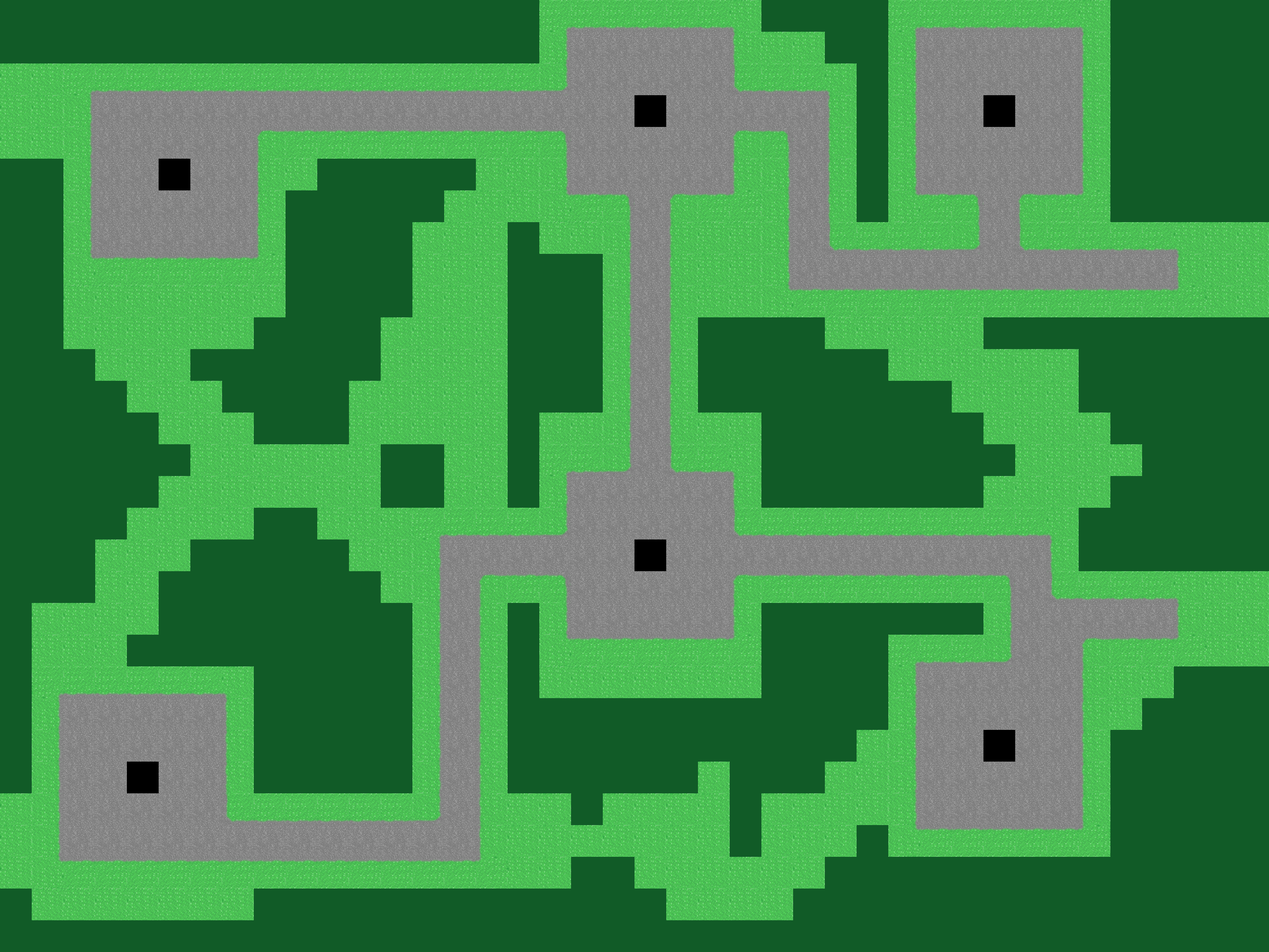
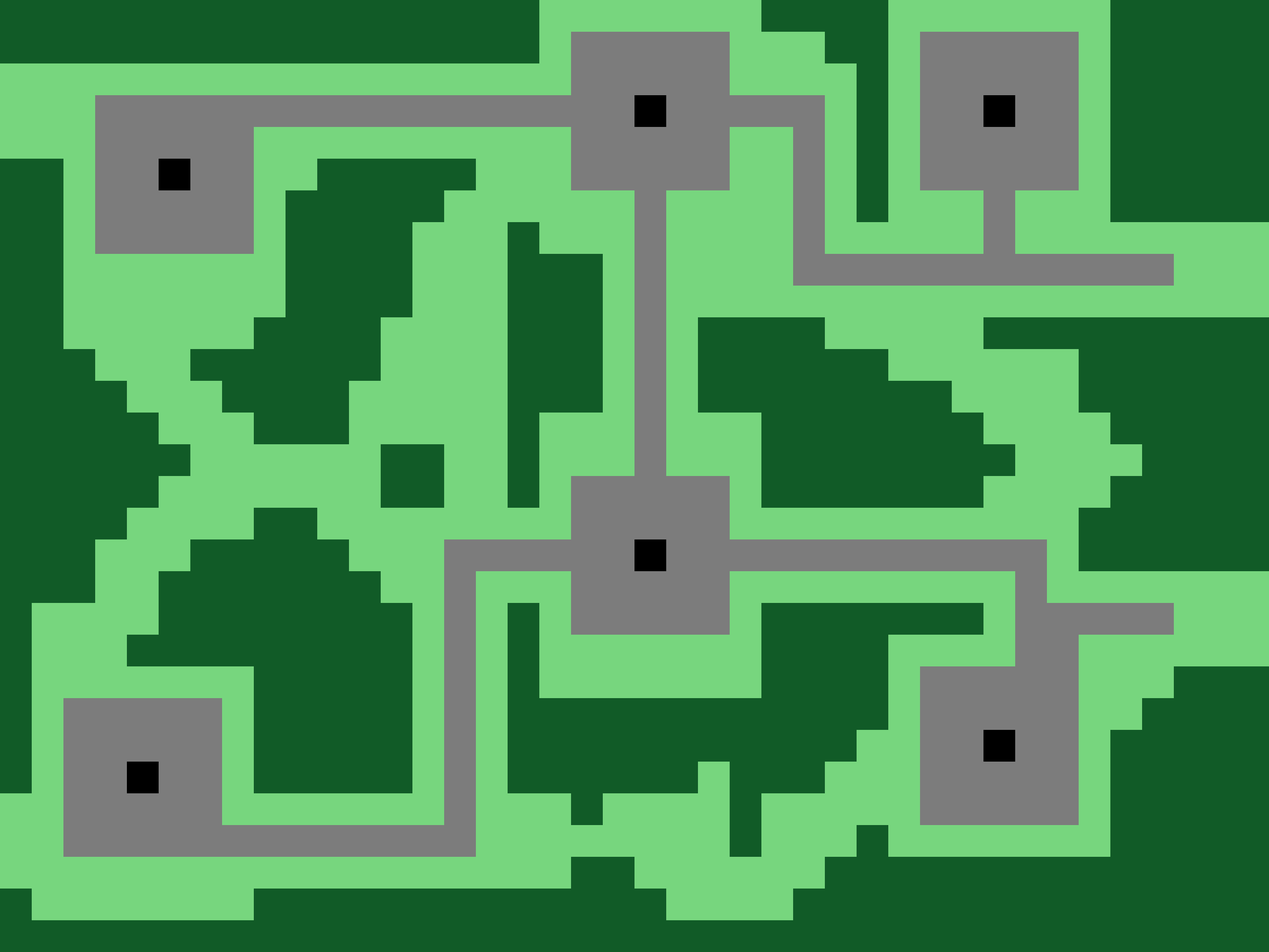
v0.0.5.3
- added caps to minimap
- added hit dmg animation
- fixed sound bug
- increased reload of main weapon to 1s

diff --git a/ui/frmmain.cpp b/ui/frmmain.cpp
@@ -30,10 +30,13 @@ FrmMain::FrmMain(QWidget *parent) :
     t_draw = new QTimer();
     t_message = new QTimer();
     t_killMessage = new QTimer();
+    t_hit = new QTimer();
     t_draw->setTimerType(Qt::PreciseTimer);
+    sound = new Sound();
     connect(t_draw,SIGNAL(timeout()),this,SLOT(on_tdraw()));
     connect(t_message,SIGNAL(timeout()),this,SLOT(on_tmessage()));
     connect(t_killMessage,SIGNAL(timeout()),this,SLOT(on_tkillMessage()));
+    connect(t_hit,SIGNAL(timeout()),this,SLOT(on_thit()));
     connect(worker,SIGNAL(newBullet(Bullet*)),this,SLOT(on_newBullet(Bullet*)));
     connect(worker,SIGNAL(newPlayer(Tank*)),this,SLOT(on_newPlayer(Tank*))); //bei neuem spieler aufrufen
     connect(worker,SIGNAL(delPlayer(int)),this,SLOT(on_delPlayer(int)));
@@ -53,8 +56,11 @@ FrmMain::FrmMain(QWidget *parent) :
     connect(worker,SIGNAL(newMap(QVector<Terrain*>)),this,SLOT(on_newMap(QVector<Terrain*>)));
     connect(worker,SIGNAL(connSuccess()),this,SLOT(on_connSuccess()));
     connect(worker,SIGNAL(wrongData()),this,SLOT(on_wrongData()));
+    connect(worker,SIGNAL(shot()),this,SLOT(on_shot()));
+    connect(worker,SIGNAL(hit(Tank*,int)),this,SLOT(on_hit(Tank*,int)));
     connect(login,SIGNAL(connectWithData(QString,QString)),this,SLOT(on_connectData(QString,QString)));
     this->setCursor(QPixmap(":/images/tank/cursor.png"));
+    sound->setVolume(0.1);
     tree = QPixmap(":/images/area/obj0.png");
     grass = QPixmap(":/images/area/obj9.png");
     minimap = QPixmap(":/images/area/minimap.png");
@@ -62,6 +68,7 @@ FrmMain::FrmMain(QWidget *parent) :
     d.addApplicationFont(":/font/Pixeled.ttf");
     font = d.font("Pixeled","Normal",12);
     t_draw->start(5);
+    t_hit->start(10);
     //t_bullet->start(5);
 }
 
@@ -116,6 +123,30 @@ void FrmMain::on_disconnect()
 {
     QMessageBox::information(this,"FEHLER","Verbindung zum Server getrennt!");
     QApplication::exit();
+}
+
+void FrmMain::on_shot()
+{
+    sound->playShot();
+}
+
+void FrmMain::on_hit(Tank *t, int dmg)
+{
+    Q_UNUSED(t);
+    animations.append(Animation("-"+QString::number(dmg,'f',0),aim->x()-5,aim->y()-15));
+}
+
+void FrmMain::on_thit()
+{
+    for(int i=0;i<animations.size();i++) {
+        int x = animations[i].getCoords().x();
+        int y = animations[i].getCoords().y()-1;
+        if(animations[i].getCount()==30) {
+            animations.removeAt(i);
+        } else {
+            animations[i].setCoords(x,y);
+        }
+    }
 }
 
 void FrmMain::on_message(QString message, int length)
@@ -176,6 +207,7 @@ void FrmMain::on_newlvlObj(Terrain *t)
 {
     Terrain *te = t;
     lvlObjs.append(te);
+    if(te->getType()==2) capObjs.append(lvlObjs.size()-1);
 }
 
 void FrmMain::on_newBullet(Bullet *b)
@@ -383,6 +415,13 @@ void FrmMain::paintEvent(QPaintEvent *e)
     painter.drawEllipse(ownTank->getRect().center(),viewRange,viewRange);*/
 
     //painter.setBrush(QColor(255,255,0,50));
+    painter.setPen(Qt::blue);
+    QFont f = painter.font();
+    f.setPointSize(15);
+    painter.setFont(f);
+    for(int i=0;i<animations.size();i++) {
+        painter.drawText(QPoint(aim->x()-15,aim->y()-animations[i].getCount()-17),animations[i].getText());
+    }
     painter.resetTransform();
     /*painter.setPen(Qt::red);
     painter.drawLine(0,540,1920,540);
@@ -394,6 +433,17 @@ void FrmMain::paintEvent(QPaintEvent *e)
     painter.drawPixmap(x,y,1920*0.2,1080*0.25,minimap);
     painter.translate(x,y);
     painter.scale(1920*0.2/width,1080*0.25/height);
+    for(int i=0;i<capObjs.size();i++) {
+        int num = capObjs[i];
+        if(lvlObjs[num]->getOwner()==0) {
+            painter.setBrush(Qt::white);
+        } else if(lvlObjs[num]->getOwner()==ownTank->getTeam()) {
+            painter.setBrush(QColor(0,255,0));
+        } else {
+            painter.setBrush(QColor(255,0,0));
+        }
+        painter.drawRect(lvlObjs[num]->getRect());
+    }
     painter.setBrush(Qt::blue);
     painter.drawRect(ownTank->getRect());
     for(int i=0;i<tanks.size();i++) {

diff --git a/core/worker.cpp b/core/worker.cpp
@@ -11,10 +11,9 @@ Worker::Worker(Tank *ownTank,QPoint *aim,int width,int height,QObject *parent) :
     t_conn = new QTimer(this);
     t_id = new QTimer(this);
     t_main->setTimerType(Qt::PreciseTimer);
-    sound = new Sound(this);
     move = new Movement(this->ownTank,this->width,this->height);
     network = new Network(this->ownTank,tanks,QHostAddress("127.0.0.1")); //ändern
-    shoot = new Shoot(this->ownTank,network,this->aim,sound);
+    shoot = new Shoot(this->ownTank,network,this->aim);
     connect(t_bullet,SIGNAL(timeout()),this,SLOT(on_tbullet()));
     connect(network,SIGNAL(newPlayer(Tank*)),this,SLOT(on_newPlayer(Tank*)));
     connect(network,SIGNAL(delPlayer(int)),this,SLOT(on_delPlayer(int)));
@@ -31,13 +30,13 @@ Worker::Worker(Tank *ownTank,QPoint *aim,int width,int height,QObject *parent) :
     connect(network,SIGNAL(setT(int)),this,SLOT(on_setT(int)));
     connect(network,SIGNAL(pos(Tank*,int,int,int,int,int,int,int)),this,SLOT(on_pos(Tank*,int,int,int,int,int,int,int)));
     connect(network,SIGNAL(conn(bool)),this,SLOT(on_conn(bool)));
+    connect(network,SIGNAL(hit(Tank*,int)),this,SIGNAL(hit(Tank*,int)));
     connect(move,SIGNAL(fullscreen()),this,SIGNAL(fullscreen()));
     connect(move,SIGNAL(tab()),this,SIGNAL(tab()));
     connect(shoot,SIGNAL(newBullet(Bullet*)),this,SLOT(on_newBullet(Bullet*)));
     connect(t_main,SIGNAL(timeout()),this,SLOT(on_tmain()));
     connect(t_conn,SIGNAL(timeout()),this,SLOT(on_tconn()));
     connect(t_id,SIGNAL(timeout()),this,SLOT(on_tid()));
-    sound->setVolume(0.1);
     t_bullet->start(2);
     t_main->start(4);
     //loadMap();
@@ -129,7 +128,7 @@ void Worker::on_delObjs()
 void Worker::on_newBullet(Bullet *b)
 {
     bullets.append(b);
-    if(b->get().intersects(viewRect)&&b->getShooter()!=ownTank->getName()) sound->playShot();
+    if(b->get().intersects(viewRect)) emit shot();
     emit newBullet(b);
 }
 
@@ -163,6 +162,10 @@ void Worker::on_tbullet()
                     }
                 }
             }
+            int x = bullets[i]->get().center().x();
+            int y = bullets[i]->get().center().y();
+            int pos = (x/72+(y/72*40));
+            if(x<0||y<0||x>width||y>height||!lvlObjs[pos]->getType()) bullets[i]->setEnabled(false);
         }
     }
 }

diff --git a/core/shoot.cpp b/core/shoot.cpp
@@ -1,8 +1,7 @@
 #include "shoot.h"
 
-Shoot::Shoot(Tank *t, Network *n, QPoint *aim, Sound *sound, QObject *parent) : QObject(parent)
+Shoot::Shoot(Tank *t, Network *n, QPoint *aim, QObject *parent) : QObject(parent)
 {
-    this->sound = sound;
     t_cool = new QTimer();
     t_main = new QTimer();
     isCool = false;
@@ -10,7 +9,7 @@ Shoot::Shoot(Tank *t, Network *n, QPoint *aim, Sound *sound, QObject *parent) : 
     mpos = aim;
     this->t = t;
     this->network = n;
-    w = new Weapon(150,750);
+    w = new Weapon(150,1000);
     connect(t_cool,SIGNAL(timeout()),this,SLOT(on_tcool()));
     connect(t_main,SIGNAL(timeout()),this,SLOT(on_tmain()));
     t_main->start(50);
@@ -47,7 +46,6 @@ void Shoot::on_tmain()
             enabled = false;
         }
         b->setEnabled(enabled);
-        sound->playShot();
         emit newBullet(b);
     }
 }

diff --git a/ui/frmmain.h b/ui/frmmain.h
@@ -17,6 +17,7 @@
 #include "core/terrain.h"
 #include "core/shoot.h"
 #include "core/worker.h"
+#include "core/animation.h"
 #include "ui/frmlogin.h"
 
 namespace Ui {
@@ -52,6 +53,9 @@ private slots:
     void on_connectData(QString username,QString pw);
     void on_connSuccess();
     void on_wrongData();
+    void on_shot();
+    void on_hit(Tank *t, int dmg);
+    void on_thit();
 
 private:
     Ui::FrmMain *ui;
@@ -60,13 +64,17 @@ private:
     QVector <Tank*> tanks;
     QVector <Terrain*> lvlObjs;
     QVector <Bullet*> bullets;
+    QVector <int> capObjs;
+    QVector <Animation> animations;
     QTimer *t_draw;
     QTimer *t_message;
     QTimer *t_killMessage;
+    QTimer *t_hit;
     QPoint *aim;
     QPoint *mpos;
     QRect viewRect;
     QFont font;
+    Sound *sound;
     int messageLength;
     int width;
     int height;

diff --git a/core/network.cpp b/core/network.cpp
@@ -126,7 +126,7 @@ void Network::fetchTCP(QString data)
         if(list.size()>1) {
             if(list.at(1)!=ownTank->getName()) {
                 switch(m) {
-                    case -8:
+                    case -8: //login erfolgreich?
                         if(list.at(1).toInt()) {
                             emit conn(true);
                         } else {
@@ -262,6 +262,10 @@ void Network::fetchTCP(QString data)
                     break;
                     case 11: //capobj
                         emit capobj(list.at(1).toInt(),list.at(2).toInt(),list.at(3).toInt());
+                    break;
+                    case 12: //hit
+                        Tank *t = sucheTank(list.at(1));
+                        emit hit(t,list.at(2).toInt());
                     break;
                 }
             }

diff --git a/core/shoot.h b/core/shoot.h
@@ -9,7 +9,6 @@
 #include "network.h"
 #include "tank.h"
 #include "weapon.h"
-#include "sound.h"
 
 
 class Shoot : public QObject
@@ -27,9 +26,8 @@ private:
     Weapon *w;
     QPoint *mpos;
     Tank *t;
-    Sound *sound;
 public:
-    explicit Shoot(Tank *t, Network *n, QPoint *aim,Sound *sound,QObject *parent = 0);
+    explicit Shoot(Tank *t, Network *n, QPoint *aim, QObject *parent = 0);
     void MousePressEvent(QMouseEvent *e);
     void MouseReleaseEvent(QMouseEvent *e);
     void setMpos(QPoint mpos);

diff --git a/core/animation.cpp b/core/animation.cpp
@@ -1,0 +1,36 @@
+#include "animation.h"
+
+Animation::Animation()
+{
+
+}
+
+Animation::Animation(QString text, int x, int y)
+{
+    this->text = text;
+    this->x = x;
+    this->y = y;
+    count = 0;
+}
+
+void Animation::setCoords(int x, int y)
+{
+    this->x = x;
+    this->y = y;
+    count++;
+}
+
+int Animation::getCount()
+{
+    return count;
+}
+
+QPoint Animation::getCoords()
+{
+    return QPoint(x,y);
+}
+
+QString Animation::getText()
+{
+    return text;
+}

diff --git a/core/animation.h b/core/animation.h
@@ -1,0 +1,22 @@
+#ifndef ANIMATION_H
+#define ANIMATION_H
+#include <QString>
+#include <QPoint>
+
+class Animation
+{
+private:
+    QString text;
+    int x;
+    int y;
+    int count;
+public:
+    Animation(QString text, int x, int y);
+    Animation();
+    void setCoords(int x,int y);
+    int getCount();
+    QPoint getCoords();
+    QString getText();
+};
+
+#endif // ANIMATION_H

diff --git a/core/worker.h b/core/worker.h
@@ -48,7 +48,6 @@ private:
     Network *network;
     Shoot *shoot;
     QPoint *aim;
-    Sound *sound;
     QString username;
     int width;
     int height;
@@ -84,6 +83,8 @@ signals:
     void connFail();
     void connSuccess();
     void wrongData();
+    void shot();
+    void hit(Tank *t, int dmg);
 };
 
 #endif // WORKER_H

diff --git a/core/network.h b/core/network.h
@@ -62,6 +62,7 @@ signals:
     void capobj(int num,int owner,int cp);
     void setT(int timer);
     void conn(bool success);
+    void hit(Tank *t,int dmg);
 public slots:
 };
 
